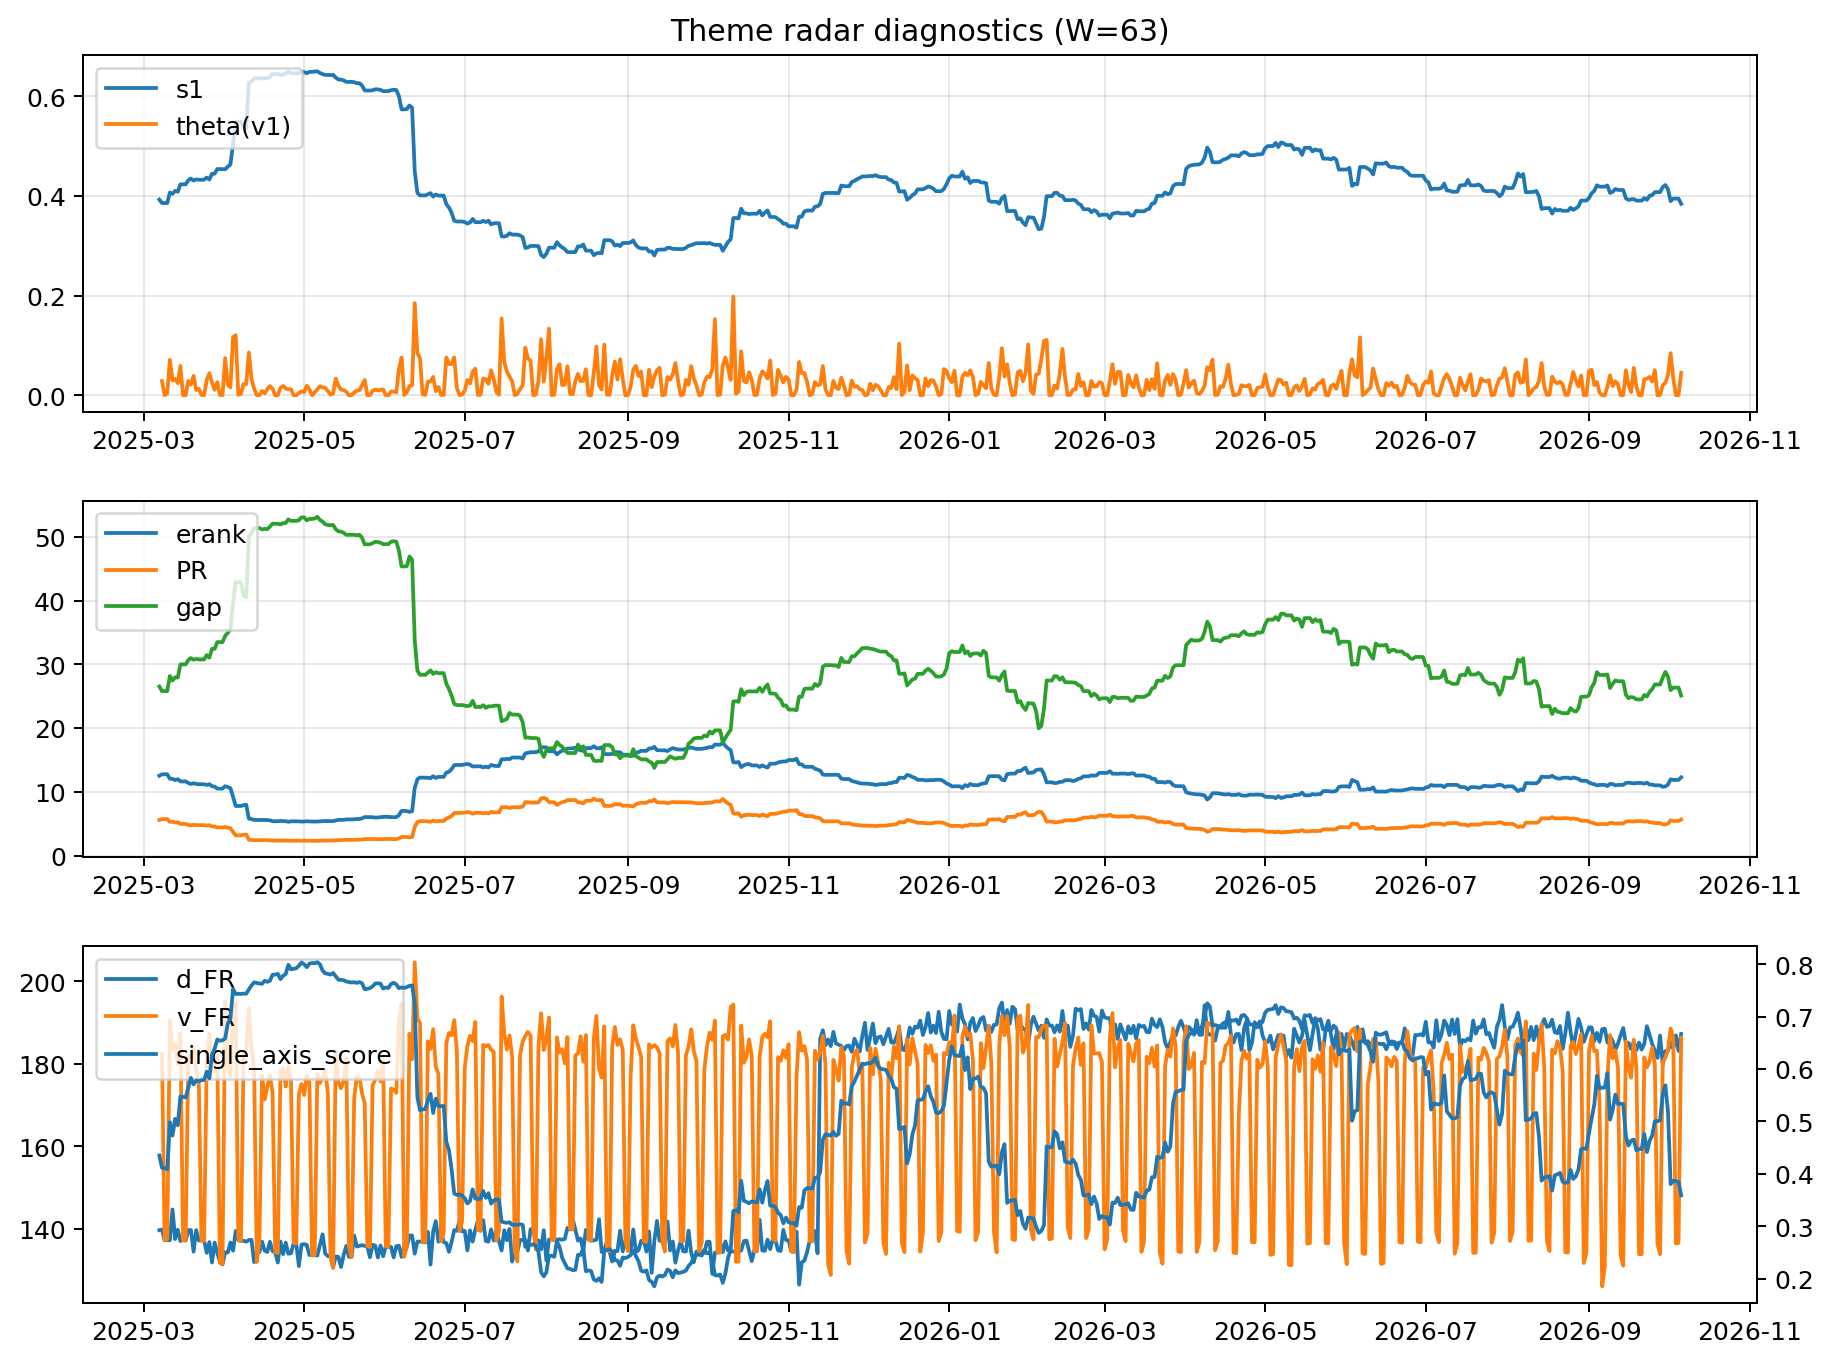
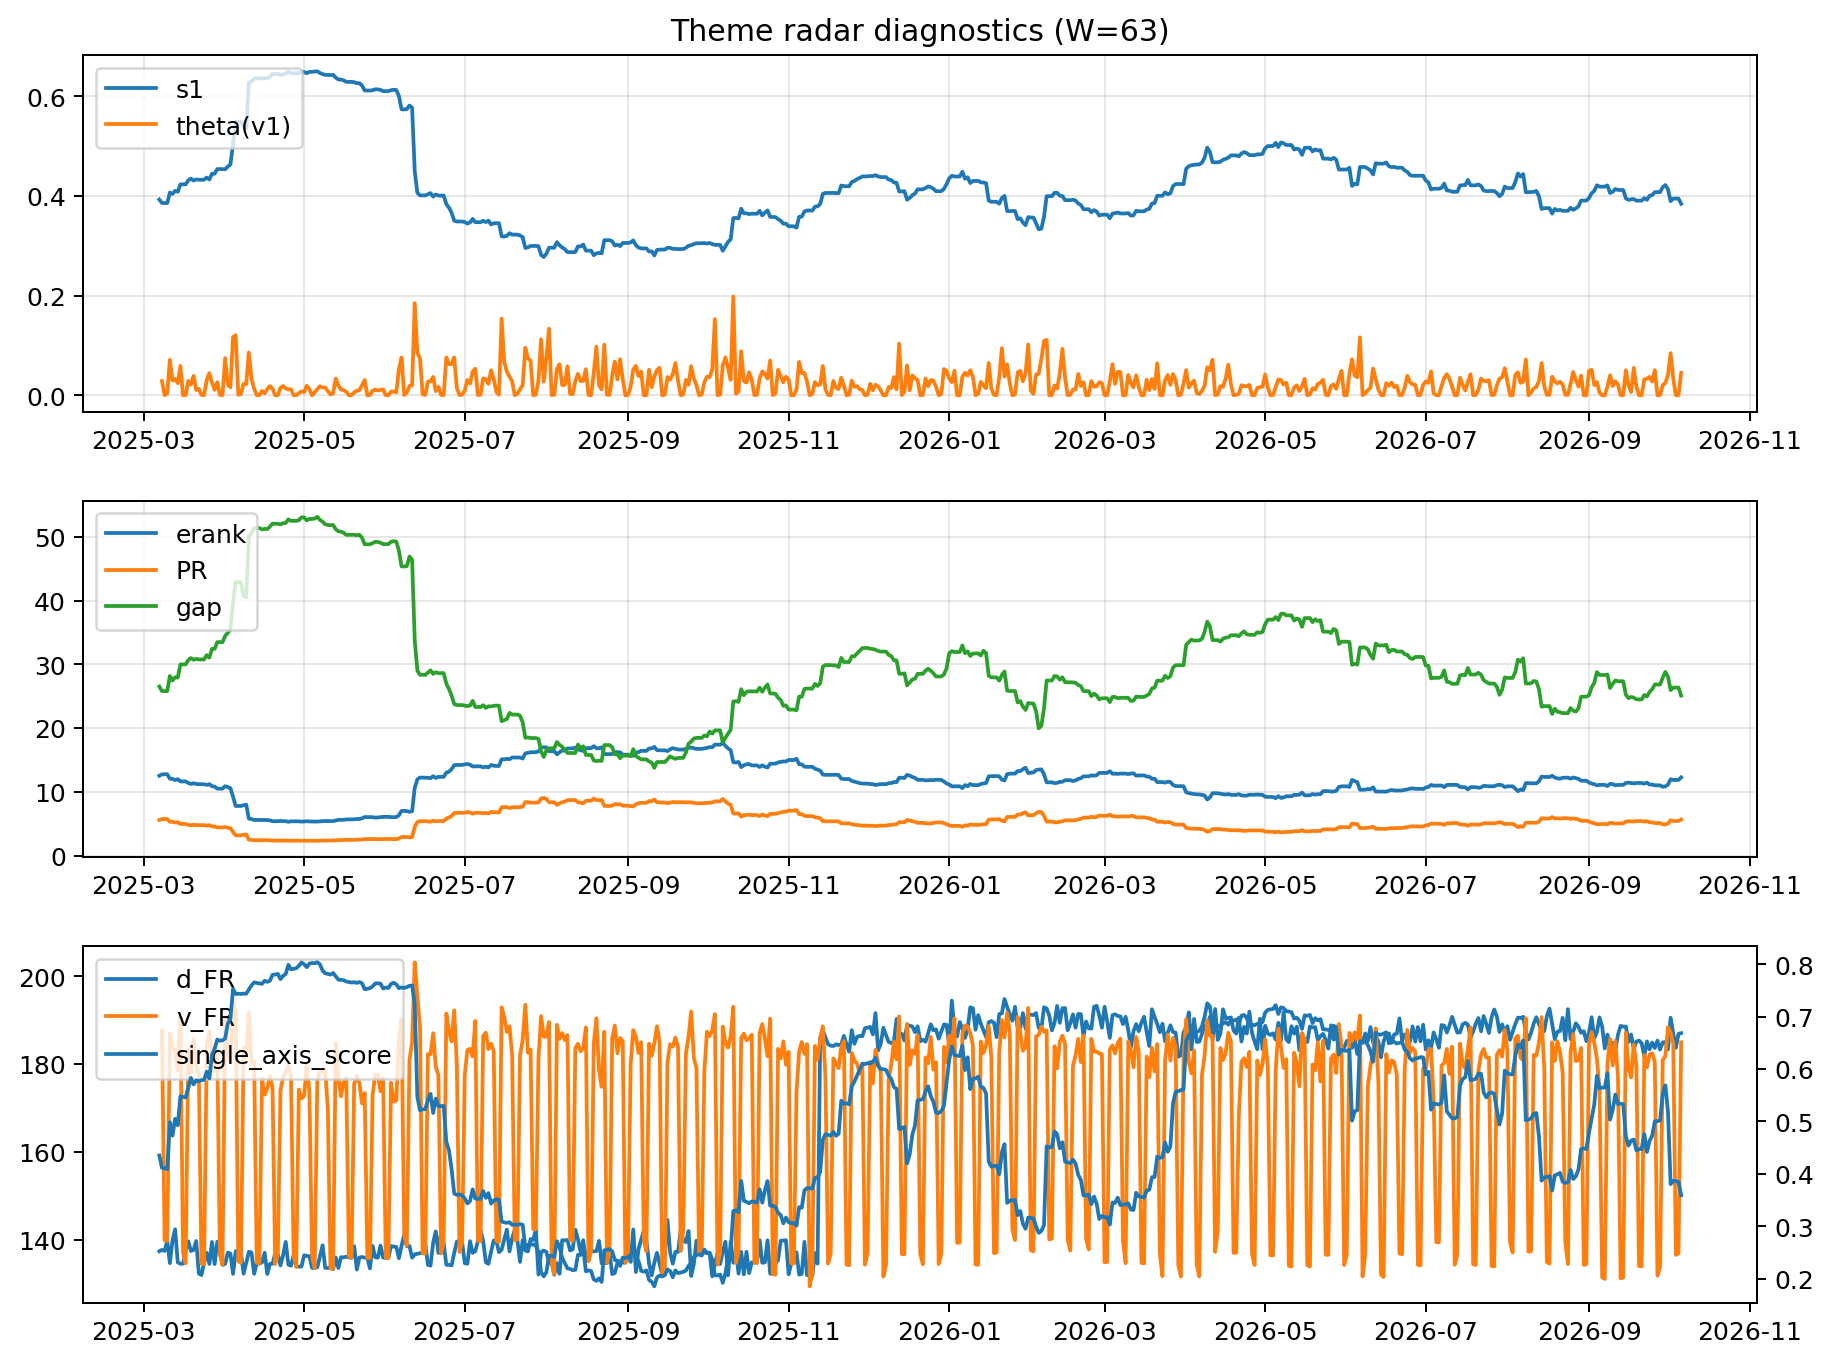
log: 2026-10-06 | sha256:46f97560445026f3566566c60acd2cad1e1f2aab41821fabd629b9269744c6e9

diff --git a/logs/2026-10-06.md b/logs/2026-10-06.md
@@ -3,43 +3,43 @@
 ![diagnostic W63](../assets/diagnostic/2026-10-06_W63.png)
 
 ## Leaders (v1) — W=63
-- **Nuclear_Uranium** (0.0741786011145135)
-- Semis (0.0634533224508141)
-- Space (0.0565264953143766)
+- **Nuclear_Uranium** (0.0741786029017659)
+- Semis (0.0634533227401971)
+- Space (0.0565264956027688)
 
 ## Challengers — W=63
-**v2:** Semis (0.0949610537094426), Genomics_Bio (0.0795963088806992), Grid_Power (0.0780244950723657)
-**v3:** Software_Cloud (0.1078315748208381), Cyber (0.0794331512666751), Space (0.0665138817791865)
+**v2:** Semis (0.0949610569980481), Genomics_Bio (0.0795964845638601), Grid_Power (0.0780245123878213)
+**v3:** Software_Cloud (0.1078315221249251), Cyber (0.0794330924710486), Space (0.0665138923918123)
 
 ## Migration (20D slope) — W=63
 **Top risers:**
-- axis_Rates: 0.0009351115648777
-- axis_DataCenter_Infra: 0.0005645739034254
-- axis_Sector_RealEstate: 0.0005036445053049
-- axis_Software_Cloud: 0.0003740486128343
-- axis_Commodities: 0.0002509316875808
-- axis_Sector_ConsDisc: 0.0002265071228455
-- axis_Sector_Materials: 0.000222182789192
-- axis_Sector_Utilities: 0.000218478183399
-- axis_Credit: 0.0002075365902344
-- axis_Sector_Comm: 0.0001862374541002
+- axis_Rates: 0.0009351080698835
+- axis_DataCenter_Infra: 0.0005645739004319
+- axis_Sector_RealEstate: 0.0005036443132729
+- axis_Software_Cloud: 0.0003740490229635
+- axis_Commodities: 0.0002509313500483
+- axis_Sector_ConsDisc: 0.0002265071553733
+- axis_Sector_Materials: 0.0002221824924468
+- axis_Sector_Utilities: 0.0002184776574576
+- axis_Credit: 0.0002075362159921
+- axis_Sector_Comm: 0.0001862368032516
 
 **Top fallers:**
-- axis_MegaCap_AI: -9.149237444383646e-05
-- axis_Clean_Broad: -0.0001266032410944
-- axis_Critical_Minerals: -0.0001327334744484
-- axis_Drones_Autonomy: -0.0003091281049503
-- axis_Space: -0.0003166203399549
-- axis_Sector_ConsStap: -0.0003186253660467
-- axis_Grid_Power: -0.0003583589114248
-- axis_Quantum: -0.0004559747427176
-- axis_Semis: -0.0005021246563179
-- axis_Nuclear_Uranium: -0.00061215892504
+- axis_MegaCap_AI: -9.14924279039964e-05
+- axis_Clean_Broad: -0.0001266029840834
+- axis_Critical_Minerals: -0.0001327328063172
+- axis_Drones_Autonomy: -0.0003091279339484
+- axis_Space: -0.0003166197637874
+- axis_Sector_ConsStap: -0.0003186252588818
+- axis_Grid_Power: -0.0003583587214707
+- axis_Quantum: -0.0004559738088277
+- axis_Semis: -0.0005021241564515
+- axis_Nuclear_Uranium: -0.0006121587146592
 
 ## Risk line (W=63)
-- s1: 0.384192914772343
-- theta_v1: 0.0451082026017782
-- v_FR: 186.2786258714982
+- s1: 0.3841930346571832
+- theta_v1: 0.0451082045898429
+- v_FR: 184.91350058104325
 - single_axis_score: 0.358894645941278
 
 ## Interpretation
@@ -48,7 +48,7 @@
 - Action: Tomorrow watchlist: Rates, DataCenter_Infra, Sector_RealEstate, Software_Cloud, Commodities + v2_top1=Semis
 - Action: Hedge note: normal correlation stability.
 
-- Percentiles (W=63 history): vfr_pct=0.84, theta_pct=0.83, s1_pct=0.35, score_pct=0.28.
+- Percentiles (W=63 history): vfr_pct=0.75, theta_pct=0.83, s1_pct=0.35, score_pct=0.28.
 
 ---
[2 lines of base64/hex data omitted]
